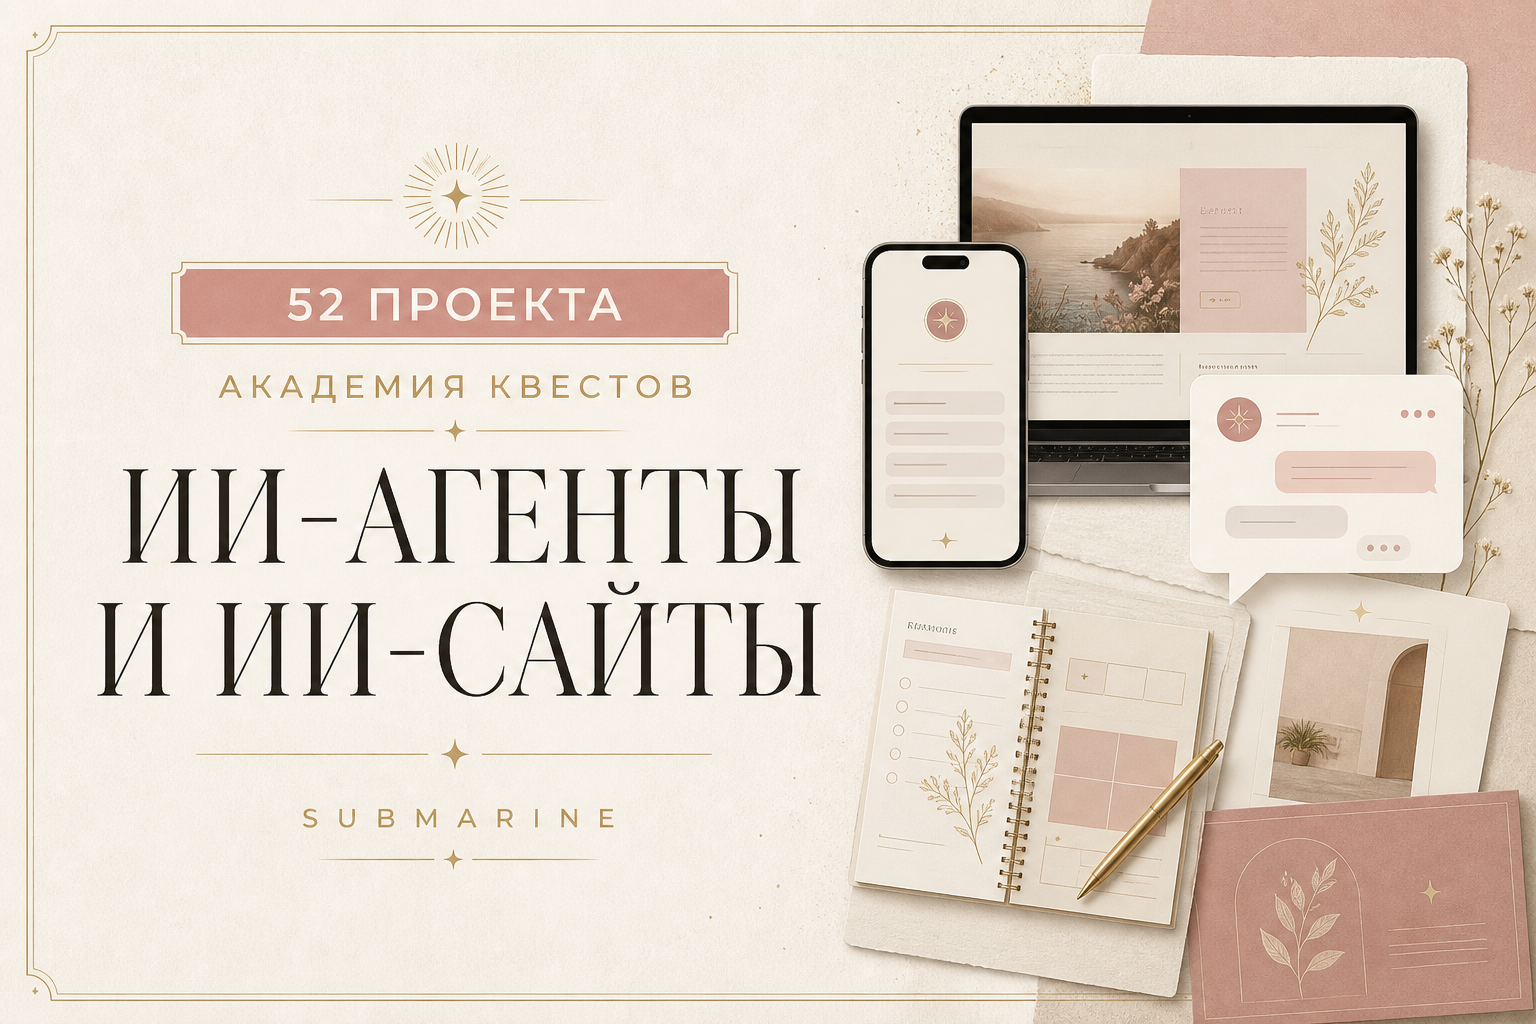
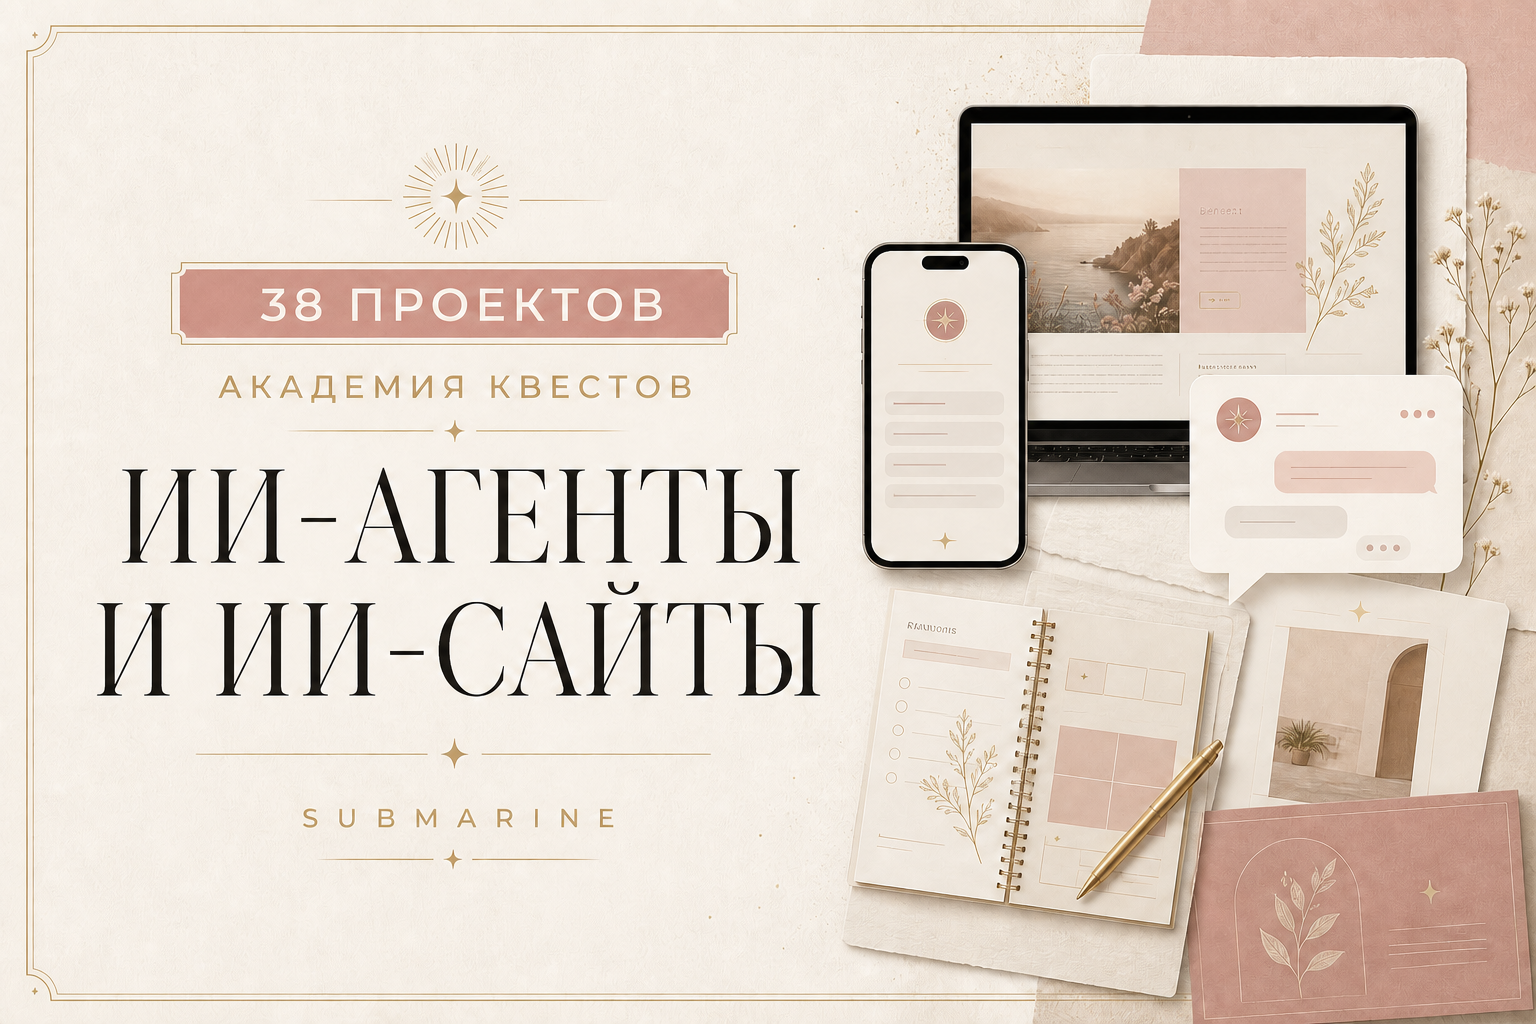
chore: update academy project count

diff --git a/app/content/original-quests/original-quests.test.ts b/app/content/original-quests/original-quests.test.ts
@@ -1,6 +1,6 @@
 import { describe, expect, it } from "vitest";
 import { defaultCustomization, questColorPalettes } from "../customization";
-import { getProject } from "../projects";
+import { getQuestProject } from "../projects";
 import { buildFamilyExpensesQuest } from "./family-expenses";
 import { buildPlannerQuest } from "./planner";
 import { buildIdeaVaultQuest } from "./idea-vault";
@@ -15,7 +15,7 @@ function text(value: unknown): string {
 
 describe("first four original quests", () => {
   it("builds a fully bespoke family-expenses learning and client path", () => {
-    const project = getProject("family-expenses")!;
+    const project = getQuestProject("family-expenses")!;
     const customization = {
       ...defaultCustomization(project.slug)!,
       audience: "Семья с детьми",
@@ -52,7 +52,7 @@ describe("first four original quests", () => {
   });
 
   it("makes Codex create the family-expenses workspace and data files itself", () => {
-    const project = getProject("family-expenses")!;
+    const project = getQuestProject("family-expenses")!;
     const steps = buildFamilyExpensesQuest(project, "real", defaultCustomization(project.slug)!);
     const all = text(steps);
     expect(all).toMatch(/Codex сам создаст|создай сам/i);
@@ -66,7 +66,7 @@ describe("first four original quests", () => {
   });
 
   it("builds a calm, original planner that can be repeated for a client", () => {
-    const project = getProject("planner")!;
+    const project = getQuestProject("planner")!;
     const customization = {
       ...defaultCustomization(project.slug)!,
       audience: "Мама с малышом",
@@ -99,7 +99,7 @@ describe("first four original quests", () => {
   });
 
   it("builds the real planner from a short Codex interview", () => {
-    const project = getProject("planner")!;
+    const project = getQuestProject("planner")!;
     const all = text(buildPlannerQuest(project, "real", defaultCustomization(project.slug)!));
     expect(all).toMatch(/по одному вопросу.+голосом или текстом/i);
     expect(all).toMatch(/Codex сам создаст|создай новое рабочее место planner/i);
@@ -109,7 +109,7 @@ describe("first four original quests", () => {
   });
 
   it("builds an original idea vault with a small-step client adaptation", () => {
-    const project = getProject("idea-vault")!;
+    const project = getQuestProject("idea-vault")!;
     const customization = { ...defaultCustomization(project.slug)!, audience: "Автор контента", name: "Лови мысль", style: "Яркая доска", tone: "Вдохновляюще", feature: "Следующий маленький шаг" };
     const steps = buildIdeaVaultQuest(project, "demo", customization);
     expect(steps).toHaveLength(17);
@@ -130,7 +130,7 @@ describe("first four original quests", () => {
   });
 
   it("builds the real idea vault from a short Codex interview", () => {
-    const project = getProject("idea-vault")!;
+    const project = getQuestProject("idea-vault")!;
     const all = text(buildIdeaVaultQuest(project, "real", defaultCustomization(project.slug)!));
     expect(all).toMatch(/по одному вопросу.+голосом или текстом/i);
     expect(all).toMatch(/Codex сам создаст|создай новое рабочее место idea-vault/i);
@@ -140,7 +140,7 @@ describe("first four original quests", () => {
   });
 
   it("builds a private child schedule with a distinct client adaptation", () => {
-    const project = getProject("child-schedule")!;
+    const project = getQuestProject("child-schedule")!;
     const customization = { ...defaultCustomization(project.slug)!, audience: "Семья с двумя детьми", name: "Неделя без спешки", style: "Мягкие цветовые дни", tone: "По-семейному", feature: "Что взять с собой" };
     const steps = buildChildScheduleQuest(project, "demo", customization);
     expect(steps).toHaveLength(17);
@@ -164,7 +164,7 @@ describe("first four original quests", () => {
   });
 
   it("builds the real child schedule from a private Codex interview", () => {
-    const project = getProject("child-schedule")!;
+    const project = getQuestProject("child-schedule")!;
     const all = text(buildChildScheduleQuest(project, "real", defaultCustomization(project.slug)!));
     expect(all).toMatch(/по одному вопросу.+голосом или текстом/i);
     expect(all).toMatch(/Codex сам создаст|создай новое рабочее место child-schedule/i);

diff --git a/app/content/automation-first.test.ts b/app/content/automation-first.test.ts
@@ -1,7 +1,7 @@
 import { describe, expect, it } from "vitest";
 import { buildRealDataChecklist } from "../lib/preparation";
 import { buildMobileQuest } from "./mobile";
-import { projects } from "./projects";
+import { questProjects } from "./projects";
 import { getPreparationProfile } from "./preparation";
 import { buildQuest } from "./quests";
 
@@ -19,7 +19,7 @@ const manualPreparation = /создайте[^.!?\n]{0,100}(?:папк|файл)|
 
 describe("Codex-first preparation across every track", () => {
   it("never asks a learner to create preparation folders, text files or tables", () => {
-    for (const project of projects) {
+    for (const project of questProjects) {
       for (const surface of ["desktop", "mobile"] as const) {
         const checklist = buildRealDataChecklist(project, surface);
         const copy = JSON.stringify(checklist);
@@ -32,7 +32,7 @@ describe("Codex-first preparation across every track", () => {
   });
 
   it("collects real information in dialogue and lets Codex create every service file", () => {
-    for (const project of projects) {
+    for (const project of questProjects) {
       const profile = getPreparationProfile(project.slug);
       const steps = buildQuest(project, "real");
       const prompts = steps.flatMap((step) => step.prompt ?? []).join(" ");
@@ -52,7 +52,7 @@ describe("Codex-first preparation across every track", () => {
   });
 
   it("keeps the phone path conversational instead of asking for FILE messages", () => {
-    for (const project of projects) {
+    for (const project of questProjects) {
       const profile = getPreparationProfile(project.slug);
       const steps = buildMobileQuest(project, "real");
       const openingLearnerCopy = steps.slice(0, 6).map(learnerText).join(" ");

diff --git a/app/layout.tsx b/app/layout.tsx
@@ -7,14 +7,14 @@ export const metadata: Metadata = {
   title: "Академия квестов SUBMARINE",
   description: "Все проекты курса «ИИ-агенты и ИИ-сайты» в формате пошаговых квестов.",
   openGraph: {
-    title: "52 проекта. Одна новая профессия.",
-    description: "Выбери проект, повтори 17 шагов и добавь готовую работу в портфолио.",
+    title: "38 проектов. Одна новая профессия.",
+    description: "Выберите сервис или ИИ-агента, пройдите 17 шагов и добавьте готовую работу в портфолио.",
     images: ["/og.png"],
   },
   twitter: {
     card: "summary_large_image",
     title: "Академия квестов SUBMARINE",
-    description: "52 проекта курса — шаг за шагом.",
+    description: "38 проектов курса — шаг за шагом.",
     images: ["/og.png"],
   },
   icons: { icon: "/favicon.svg", shortcut: "/favicon.svg" },

diff --git a/app/components/App.test.tsx b/app/components/App.test.tsx
@@ -7,7 +7,7 @@ import { getAgentContract } from "../content/agent-contracts";
 import { firstCoverPrototypeSlugs, getFirstCoverPrototypeSpec } from "../content/first-cover-prototypes";
 import { getThirdCoverPrototypeSpec, thirdCoverPrototypeSlugs } from "../content/third-cover-prototypes";
 import { finalCoverPrototypeSlugs, getFinalCoverPrototypeSpec } from "../content/final-cover-prototypes";
-import { getQuestProject, projects, questProjects } from "../content/projects";
+import { getQuestProject, questProjects } from "../content/projects";
 import { getPreparationProfile, getPreparationProfileSlugs } from "../content/preparation";
 import { preparationKey } from "../lib/preparation";
 import { progressKey } from "../lib/progress";

diff --git a/app/page.tsx b/app/page.tsx
@@ -3,10 +3,9 @@ import { AppEntry } from "./components/AppEntry";
 
 export const metadata: Metadata = {
   title: "Академия квестов — ИИ-агенты и ИИ-сайты",
-  description: "52 проекта курса SUBMARINE: готовые команды, 17 коротких уровней и понятный результат на каждом шаге.",
+  description: "38 разных проектов курса SUBMARINE: готовые команды, короткие уровни и понятный результат на каждом шаге.",
 };
 
 export default function Home() {
   return <AppEntry />;
 }
-

diff --git a/app/components/ProjectCard.tsx b/app/components/ProjectCard.tsx
@@ -19,7 +19,7 @@ export function ProjectCard({
     // Keep the first browser render identical to the server, then restore local progress.
     // eslint-disable-next-line react-hooks/set-state-in-effect
     setCompleted(getCatalogProjectProgress(project, window.localStorage).completed.length);
-  }, [project.slug]);
+  }, [project]);
   const status = completed === LEVELS_PER_QUEST ? "Готово" : completed > 0 ? `${completed} из 17` : "Не начато";
 
   function open(event: MouseEvent<HTMLAnchorElement>) {
